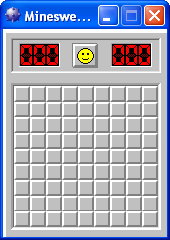
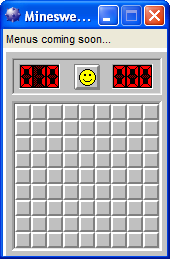
Polishing pixel details

diff --git a/game.py b/game.py
@@ -83,12 +83,15 @@ class App(tk.Frame):
         width, height = self.mapSize
         # CREATION
         self.superTopFrame = tk.Frame(self, bd=2 * f, relief="sunken")
-        self.topFrame = tk.Frame(self.superTopFrame, bg="gray76", pady=3 * f)
-        self.mineFrame = tk.Frame(self.topFrame, bd=f, relief="sunken")
-        self.timeFrame = tk.Frame(self.topFrame, bd=f, relief="sunken")
-        self.bottomFrame = tk.Frame(self, bd=3 * f, relief="sunken")
+        self.topFrame = tk.Frame(self.superTopFrame, bg="gray76", height=23 * f)
+        self.mineFrame = tk.Frame(self.topFrame, bd=f, relief="sunken",
+                                  width=39 * f, height=13 * f)
+        self.timeFrame = tk.Frame(self.topFrame, bd=f, relief="sunken",
+                                  width=39 * f, height=13 * f)
+        self.bottomFrame = tk.Frame(self, bd=3 * f, relief="sunken",
+                                    height=16 * f)
 
-        self.button = tk.Label(self.topFrame, bd=0)
+        self.button = tk.Label(self.topFrame, bd=0, width=26, height=26)
         self.mineCounter = [tk.Label(self.mineFrame, bd=0) for _ in range(3)]
         self.timeCounter = [tk.Label(self.timeFrame, bd=0) for _ in range(3)]
         self.cells = [tk.Label(self.bottomFrame, bd=0)
@@ -103,16 +106,19 @@ class App(tk.Frame):
         [self.rowconfigure(i, weight=1) for i in range(2)]
         # GRID
         self.superTopFrame.grid(column=0, row=0, sticky="NEW",
-                                padx=5 * f, pady=5 * f)
+                                padx=(6 * f, 5 * f), pady=6 * f)
         self.topFrame.pack(expand=True, fill="both")
-        self.button.grid(column=1, row=0)
-        self.mineFrame.grid(column=0, row=0)
-        self.timeFrame.grid(column=2, row=0)
+        self.button.grid(column=1, row=0, padx=(14 * f, 12 * f),
+                         pady=(4 * f, 3 * f))
+        self.mineFrame.grid(column=0, row=0, padx=(5 * f, 0),
+                            pady=(4 * f, 4 * f))
+        self.timeFrame.grid(column=2, row=0, padx=(0, 7 * f),
+                            pady=(4 * f, 4 * f))
         for i in range(3):
             self.mineCounter[i].grid(column=i, row=0)
             self.timeCounter[i].grid(column=i, row=0)
         self.bottomFrame.grid(column=0, row=1, sticky="NEW",
-                              padx=5 * f, pady=5 * f)
+                              padx=(6 * f, 5 * f), pady=(0, 5 * f))
         for w in range(width):
             for h in range(height):
                 self.cells[w + width * h].grid(column=w, row=h)
@@ -280,11 +286,11 @@ def run_game(factor, difficulty):
 
     root = tk.Tk()
     root.title("Minesweeper")
-    root.config(bg="gray76")
+    root.config(bg="white")
     root.resizable(0, 0)
     root.iconbitmap(default=join("media", "icon.ico"))
-    rootSize = ((mapSize[0] * 16 + 16) * factor,
-                (mapSize[1] * 16 + 26 + 36) * factor)
+    rootSize = ((mapSize[0] * 16 + 6 + 6 + 5 + 3) * factor,
+                (mapSize[1] * 16 + 6 + 49 + 5 + 4) * factor)  # +19 (menus)
     x = y = 0
     geometry = "%dx%d+%d+%d" % (*rootSize, x, y)
     root.geometry(geometry)
@@ -292,7 +298,7 @@ def run_game(factor, difficulty):
     root.rowconfigure(0, weight=1)
     app = App(root, factor, mapSize, nMines)
     app.config(bg="gray76", bd=0)
-    app.grid(column=0, row=0)
+    app.grid(column=0, row=0, padx=(3, 0), pady=(4, 0))
     root.mainloop()
 
 if __name__ == "__main__":
